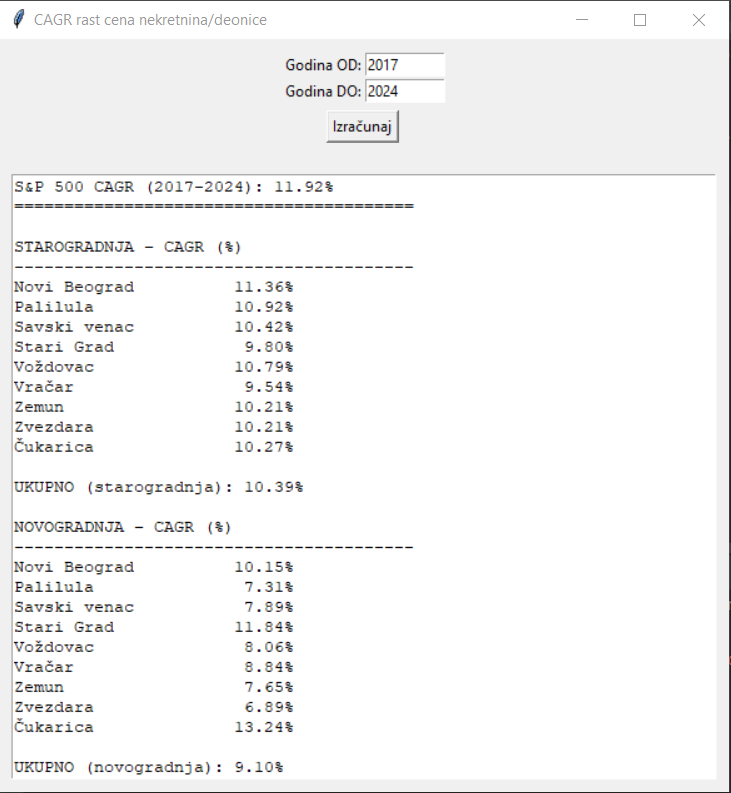
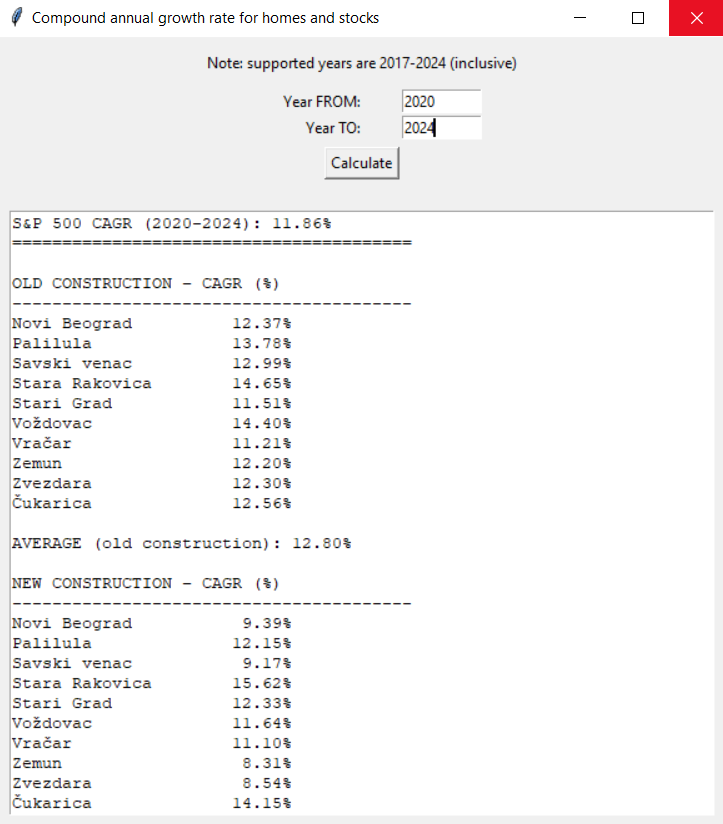
Translate to english, fix readme

Changed region(s): [[0.0, 0.0, 1.0, 1.0], [0.0, 0.0, 0.5477, 0.0303], [0.7911, 0.0, 0.8216, 0.0303]]

diff --git a/main.py b/main.py
@@ -5,190 +5,192 @@ from datetime import datetime, timedelta
 from typing import Dict, List
 
 
-class CenaStana:
+class Price:
     def __init__(
             self,
-            naziv: str,
-            min_starogradnja: int,
-            max_starogradnja: int,
-            average_starogradnja: int,
-            min_novogradnja: int,
-            max_novogradnja: int,
-            average_novogradnja: int):
+            municipality: str,
+            min_old_construction: int,
+            max_old_construction: int,
+            average_old_construction: int,
+            min_new_construction: int,
+            max_new_construction: int,
+            average_new_construction: int):
     
-        self.naziv: str = naziv # name of opstina
+        self.municipality: str = municipality # municipality name
 
-        self.min_starogradnja: int = min_starogradnja  # not used anywhere but kept in for further improvements
-        self.max_starogradnja: int = max_starogradnja  # not used anywhere but kept in for further improvements
-        self.average_starogradnja: int = average_starogradnja
+        self.min_old_construction: int = min_old_construction  # not used anywhere but kept in for further improvements
+        self.max_old_construction: int = max_old_construction  # not used anywhere but kept in for further improvements
+        self.average_old_construction: int = average_old_construction  # average price per square meter for old construction
 
-        self.min_novogradnja: int = min_novogradnja  # not used anywhere but kept in for further improvements
-        self.max_novogradnja: int = max_novogradnja  # not used anywhere but kept in for further improvements
-        self.average_novogradnja: int = average_novogradnja
+        self.min_new_construction: int = min_new_construction  # not used anywhere but kept in for further improvements
+        self.max_new_construction: int = max_new_construction  # not used anywhere but kept in for further improvements
+        self.average_new_construction: int = average_new_construction  # average price per square meter for new construction
 
 
 home_prices = {
-    # opstina, min_starogradnja, max_starogradnja, average_starogradnja, min_novogradnja, max_novogradnja, average_novogradnja
+    # municipality,
+    # min_old_construction, max_old_construction, average_old_construction
+    # min_new_construction, max_new_construction, average_new_construction
     2024: [
-        CenaStana("Stari Grad", 1000, 7500, 3367, 2200, 6517, 4197),
-        CenaStana("Vračar", 806, 6000, 3039, 1151, 5830, 3178),
-        CenaStana("Savski venac", 818, 7529, 2852, 1194, 11811, 4508),
-        CenaStana("Novi Beograd", 758, 5294, 2561, 1331, 4983, 3233),
-        CenaStana("Zvezdara", 700, 5185, 2422, 1083, 4788, 2347),
-        CenaStana("Palilula", 755, 4600, 2301, 1118, 4209, 2577),
-        CenaStana("Voždovac", 742, 3902, 2254, 1000, 4188, 2616),
-        CenaStana("Zemun", 654, 3571, 2198, 909, 3535, 2378),
-        CenaStana("Čukarica", 649, 3690, 2085, 977, 4051, 2878),
-        CenaStana("Stara Rakovica", 702, 2893, 1835, 1134, 3044, 2284),
-        CenaStana("Beograd (svi gradovi)", 600, 7500, 2225, 800, 11811, 2435)
+        Price("Stari Grad", 1000, 7500, 3367, 2200, 6517, 4197),
+        Price("Vračar", 806, 6000, 3039, 1151, 5830, 3178),
+        Price("Savski venac", 818, 7529, 2852, 1194, 11811, 4508),
+        Price("Novi Beograd", 758, 5294, 2561, 1331, 4983, 3233),
+        Price("Zvezdara", 700, 5185, 2422, 1083, 4788, 2347),
+        Price("Palilula", 755, 4600, 2301, 1118, 4209, 2577),
+        Price("Voždovac", 742, 3902, 2254, 1000, 4188, 2616),
+        Price("Zemun", 654, 3571, 2198, 909, 3535, 2378),
+        Price("Čukarica", 649, 3690, 2085, 977, 4051, 2878),
+        Price("Stara Rakovica", 702, 2893, 1835, 1134, 3044, 2284),
+        Price("Beograd (svi gradovi)", 600, 7500, 2225, 800, 11811, 2435)
     ],
     2023: [
-        CenaStana("Stari Grad", 952, 6000, 3130, 1980, 5215, 3625),
-        CenaStana("Vračar", 645, 4650, 2822, 984, 6245, 2988),
-        CenaStana("Savski venac", 900, 4432, 2490, 945, 11475, 4213),
-        CenaStana("Novi Beograd", 732, 5032, 2415, 895, 4030, 2538),
-        CenaStana("Zvezdara", 600, 4298, 2212, 795, 3933, 2280),
-        CenaStana("Palilula", 690, 4367, 2185, 1000, 3888, 2150),
-        CenaStana("Zemun", 610, 4268, 2085, 605, 3707, 2320),
-        CenaStana("Voždovac", 515, 3930, 2052, 705, 3780, 2290),
-        CenaStana("Čukarica", 625, 3500, 1925, 605, 3470, 2110),
-        CenaStana("Stara Rakovica", 600, 2513, 1685, 1042, 2720, 1928),
-        CenaStana("Beograd (svi gradovi)", 400, 6000, 2060, 605, 11475, 2413)
+        Price("Stari Grad", 952, 6000, 3130, 1980, 5215, 3625),
+        Price("Vračar", 645, 4650, 2822, 984, 6245, 2988),
+        Price("Savski venac", 900, 4432, 2490, 945, 11475, 4213),
+        Price("Novi Beograd", 732, 5032, 2415, 895, 4030, 2538),
+        Price("Zvezdara", 600, 4298, 2212, 795, 3933, 2280),
+        Price("Palilula", 690, 4367, 2185, 1000, 3888, 2150),
+        Price("Zemun", 610, 4268, 2085, 605, 3707, 2320),
+        Price("Voždovac", 515, 3930, 2052, 705, 3780, 2290),
+        Price("Čukarica", 625, 3500, 1925, 605, 3470, 2110),
+        Price("Stara Rakovica", 600, 2513, 1685, 1042, 2720, 1928),
+        Price("Beograd (svi gradovi)", 400, 6000, 2060, 605, 11475, 2413)
     ],
     2022: [
-        CenaStana("Stari Grad", 715, 5238, 2628, 1010, 4765, 3265),
-        CenaStana("Vračar", 850, 4302, 2500, 875, 6162, 2575),
-        CenaStana("Savski venac", 833, 5195, 2248, 888, 10400, 3825),
-        CenaStana("Novi Beograd", 693, 4613, 2090, 875, 3995, 2522),
-        CenaStana("Zvezdara", 600, 3915, 1995, 625, 3362, 2150),
-        CenaStana("Palilula", 730, 4153, 1827, 1087, 3585, 2440),
-        CenaStana("Zemun", 517, 3500, 1805, 705, 3120, 2062),
-        CenaStana("Voždovac", 635, 3520, 1740, 737, 3492, 2132),
-        CenaStana("Čukarica", 500, 3500, 1657, 680, 4038, 1930),
-        CenaStana("Stara Rakovica", 705, 2260, 1427, 770, 2115, 1650),
-        CenaStana("Beograd (svi gradovi)", 400, 5238, 1815, 600, 10400, 2342)
+        Price("Stari Grad", 715, 5238, 2628, 1010, 4765, 3265),
+        Price("Vračar", 850, 4302, 2500, 875, 6162, 2575),
+        Price("Savski venac", 833, 5195, 2248, 888, 10400, 3825),
+        Price("Novi Beograd", 693, 4613, 2090, 875, 3995, 2522),
+        Price("Zvezdara", 600, 3915, 1995, 625, 3362, 2150),
+        Price("Palilula", 730, 4153, 1827, 1087, 3585, 2440),
+        Price("Zemun", 517, 3500, 1805, 705, 3120, 2062),
+        Price("Voždovac", 635, 3520, 1740, 737, 3492, 2132),
+        Price("Čukarica", 500, 3500, 1657, 680, 4038, 1930),
+        Price("Stara Rakovica", 705, 2260, 1427, 770, 2115, 1650),
+        Price("Beograd (svi gradovi)", 400, 5238, 1815, 600, 10400, 2342)
     ],
     2021: [
-        CenaStana("Stari Grad", 882, 4500, 2328, 1325, 6493, 2755),
-        CenaStana("Vračar", 882, 4615, 2168, 845, 4292, 2224),
-        CenaStana("Savski venac", 870, 3420, 1866, 1200, 10068, 3155),
-        CenaStana("Novi Beograd", 715, 3083, 1770, 875, 3937, 2190),
-        CenaStana("Zvezdara", 773, 3208, 1702, 727, 3325, 1845),
-        CenaStana("Palilula", 587, 3000, 1572, 900, 3470, 2020),
-        CenaStana("Zemun", 632, 2625, 1563, 672, 2795, 1820),
-        CenaStana("Voždovac", 605, 2647, 1510, 675, 3287, 1958),
-        CenaStana("Čukarica", 570, 2442, 1430, 600, 2900, 1728),
-        CenaStana("Stara Rakovica", 522, 1880, 1180, 732, 1844, 1368),
-        CenaStana("Beograd (svi gradovi)", 400, 4615, 1530, 600, 10068, 2005)
+        Price("Stari Grad", 882, 4500, 2328, 1325, 6493, 2755),
+        Price("Vračar", 882, 4615, 2168, 845, 4292, 2224),
+        Price("Savski venac", 870, 3420, 1866, 1200, 10068, 3155),
+        Price("Novi Beograd", 715, 3083, 1770, 875, 3937, 2190),
+        Price("Zvezdara", 773, 3208, 1702, 727, 3325, 1845),
+        Price("Palilula", 587, 3000, 1572, 900, 3470, 2020),
+        Price("Zemun", 632, 2625, 1563, 672, 2795, 1820),
+        Price("Voždovac", 605, 2647, 1510, 675, 3287, 1958),
+        Price("Čukarica", 570, 2442, 1430, 600, 2900, 1728),
+        Price("Stara Rakovica", 522, 1880, 1180, 732, 1844, 1368),
+        Price("Beograd (svi gradovi)", 400, 4615, 1530, 600, 10068, 2005)
     ],
     2020: [
-        CenaStana("Stari Grad", 1000, 4452, 2178, 962, 3836, 2636),
-        CenaStana("Vračar", 885, 4301, 1987, 1075, 3820, 2086),
-        CenaStana("Savski venac", 754, 3014, 1750, 1208, 9194, 3174),
-        CenaStana("Novi Beograd", 543, 3243, 1606, 900, 3731, 2258),
-        CenaStana("Palilula", 611, 2636, 1373, 882, 3060, 1629),
-        CenaStana("Zvezdara", 580, 2686, 1523, 768, 2763, 1691),
-        CenaStana("Voždovac", 555, 2390, 1316, 756, 2975, 1684),
-        CenaStana("Čukarica", 473, 2229, 1299, 947, 2787, 1695),
-        CenaStana("Zemun", 672, 2117, 1387, 732, 2505, 1728),
-        CenaStana("Stara Rakovica", 500, 1718, 1062, 612, 1662, 1278)
+        Price("Stari Grad", 1000, 4452, 2178, 962, 3836, 2636),
+        Price("Vračar", 885, 4301, 1987, 1075, 3820, 2086),
+        Price("Savski venac", 754, 3014, 1750, 1208, 9194, 3174),
+        Price("Novi Beograd", 543, 3243, 1606, 900, 3731, 2258),
+        Price("Palilula", 611, 2636, 1373, 882, 3060, 1629),
+        Price("Zvezdara", 580, 2686, 1523, 768, 2763, 1691),
+        Price("Voždovac", 555, 2390, 1316, 756, 2975, 1684),
+        Price("Čukarica", 473, 2229, 1299, 947, 2787, 1695),
+        Price("Zemun", 672, 2117, 1387, 732, 2505, 1728),
+        Price("Stara Rakovica", 500, 1718, 1062, 612, 1662, 1278)
     ],
     2019: [
-        CenaStana("Stari Grad", 918, 3815, 2042, 1490, 2790, 2263),
-        CenaStana("Vračar", 905, 3125, 1840, 1221, 3019, 2002),
-        CenaStana("Savski venac", 842, 2851, 1634, 1400, 8683, 2979),
-        CenaStana("Novi Beograd", 652, 2936, 1500, 920, 3557, 2230),
-        CenaStana("Palilula", 500, 2358, 1264, 800, 2731, 1535),
-        CenaStana("Zvezdara", 619, 2441, 1426, 733, 2369, 1575),
-        CenaStana("Voždovac", 600, 2024, 1247, 739, 2226, 1640),
-        CenaStana("Čukarica", 605, 2089, 1200, 769, 2171, 1356),
-        CenaStana("Zemun", 500, 2190, 1274, 784, 2315, 1610),
-        CenaStana("Stara Rakovica", 500, 1519, 997, 850, 1194, 1077)
+        Price("Stari Grad", 918, 3815, 2042, 1490, 2790, 2263),
+        Price("Vračar", 905, 3125, 1840, 1221, 3019, 2002),
+        Price("Savski venac", 842, 2851, 1634, 1400, 8683, 2979),
+        Price("Novi Beograd", 652, 2936, 1500, 920, 3557, 2230),
+        Price("Palilula", 500, 2358, 1264, 800, 2731, 1535),
+        Price("Zvezdara", 619, 2441, 1426, 733, 2369, 1575),
+        Price("Voždovac", 600, 2024, 1247, 739, 2226, 1640),
+        Price("Čukarica", 605, 2089, 1200, 769, 2171, 1356),
+        Price("Zemun", 500, 2190, 1274, 784, 2315, 1610),
+        Price("Stara Rakovica", 500, 1519, 997, 850, 1194, 1077)
     ],
     2018: [
-        CenaStana("Stari Grad", 900, 2800, 1838, 1650, 2760, 2194),
-        CenaStana("Vračar", 920, 2500, 1712, 1200, 2987, 1859),
-        CenaStana("Savski venac", 912, 2979, 1572, 1522, 7777, 2739),
-        CenaStana("Novi Beograd", 500, 2843, 1334, 700, 3140, 1982),
-        CenaStana("Palilula", 500, 2860, 1194, 825, 2884, 1450),
-        CenaStana("Zvezdara", 606, 2286, 1346, 620, 2678, 1528),
-        CenaStana("Voždovac", 600, 2005, 1149, 645, 2044, 1534),
-        CenaStana("Čukarica", 500, 2418, 1115, 620, 2102, 1339),
-        CenaStana("Zemun", 500, 2090, 1160, 606, 1961, 1411)
+        Price("Stari Grad", 900, 2800, 1838, 1650, 2760, 2194),
+        Price("Vračar", 920, 2500, 1712, 1200, 2987, 1859),
+        Price("Savski venac", 912, 2979, 1572, 1522, 7777, 2739),
+        Price("Novi Beograd", 500, 2843, 1334, 700, 3140, 1982),
+        Price("Palilula", 500, 2860, 1194, 825, 2884, 1450),
+        Price("Zvezdara", 606, 2286, 1346, 620, 2678, 1528),
+        Price("Voždovac", 600, 2005, 1149, 645, 2044, 1534),
+        Price("Čukarica", 500, 2418, 1115, 620, 2102, 1339),
+        Price("Zemun", 500, 2090, 1160, 606, 1961, 1411)
     ],
     2017: [
-        CenaStana("Stari Grad", 800, 2800, 1750, 1300, 2310, 1918),
-        CenaStana("Vračar", 900, 2500, 1606, 1220, 2552, 1756),
-        CenaStana("Savski venac", 800, 2225, 1425, 1946, 7111, 2649),
-        CenaStana("Novi Beograd", 700, 2095, 1206, 611, 2450, 1643),
-        CenaStana("Palilula", 700, 1773, 1114, 1042, 2475, 1573),
-        CenaStana("Zvezdara", 606, 2099, 1226, 808, 2100, 1472),
-        CenaStana("Voždovac", 606, 1768, 1100, 814, 1884, 1520),
-        CenaStana("Čukarica", 600, 1698, 1052, 800, 1792, 1205),
-        CenaStana("Zemun", 600, 1700, 1113, 611, 1900, 1419)
+        Price("Stari Grad", 800, 2800, 1750, 1300, 2310, 1918),
+        Price("Vračar", 900, 2500, 1606, 1220, 2552, 1756),
+        Price("Savski venac", 800, 2225, 1425, 1946, 7111, 2649),
+        Price("Novi Beograd", 700, 2095, 1206, 611, 2450, 1643),
+        Price("Palilula", 700, 1773, 1114, 1042, 2475, 1573),
+        Price("Zvezdara", 606, 2099, 1226, 808, 2100, 1472),
+        Price("Voždovac", 606, 1768, 1100, 814, 1884, 1520),
+        Price("Čukarica", 600, 1698, 1052, 800, 1792, 1205),
+        Price("Zemun", 600, 1700, 1113, 611, 1900, 1419)
     ]
 }
 
 
 # Calculates home cagr data between 2 years, returns a list strings that can be shown on UI
 # Each string in the list should be divided by new lines (\n) before printing.
-def calculate_cagr_homes(year_from: int, year_to: int, prices: Dict[int, List[CenaStana]]) -> List[str]:
+def calculate_cagr_homes(year_from: int, year_to: int, prices: Dict[int, List[Price]]) -> List[str]:
     if year_from not in prices or year_to not in prices:
-        return ["Greška! Nema podataka za stanove za izabrane godine."]
+        return ["Error! No home data for the chosen years."]
 
     output_lines = []
     years_diff = year_to - year_from
 
-    data_from: Dict[str, CenaStana] = {o.naziv: o for o in prices[year_from]}
-    data_to: Dict[str, CenaStana] = {o.naziv: o for o in prices[year_to]}
+    data_from: Dict[str, Price] = {o.municipality: o for o in prices[year_from]}
+    data_to: Dict[str, Price] = {o.municipality: o for o in prices[year_to]}
 
-    # ---------- STAROGRADNJA ----------
-    output_lines.append("STAROGRADNJA – CAGR (%)")
+    # ---------- OLD CONSTRUCTION ----------
+    output_lines.append("OLD CONSTRUCTION – CAGR (%)")
     output_lines.append("-" * 40)
 
-    cagr_starogradnja = []
+    cagr_old_construction = []
 
-    for opstina in sorted(data_from.keys()):
-        if opstina not in data_to:
+    for municipality in sorted(data_from.keys()):
+        if municipality not in data_to:
             continue
 
-        start_starogradnja_average_price = data_from[opstina].average_starogradnja
-        end_starogradnja_average_price = data_to[opstina].average_starogradnja
+        start_price = data_from[municipality].average_old_construction
+        end_price = data_to[municipality].average_old_construction
 
-        if start_starogradnja_average_price <= 0:
+        if start_price <= 0:
             continue
 
-        cagr = (end_starogradnja_average_price / start_starogradnja_average_price) ** (1 / years_diff) - 1
-        cagr_starogradnja.append(cagr * 100)
+        cagr = (end_price / start_price) ** (1 / years_diff) - 1
+        cagr_old_construction.append(cagr * 100)
 
-        output_lines.append(f"{opstina:20s} {cagr * 100:6.2f}%")
+        output_lines.append(f"{municipality:20s} {cagr * 100:6.2f}%")
 
-    if cagr_starogradnja:
-        output_lines.append(f"\nUKUPNO (starogradnja): {sum(cagr_starogradnja) / len(cagr_starogradnja):.2f}%\n")
+    if cagr_old_construction:
+        output_lines.append(f"\nAVERAGE (old construction): {sum(cagr_old_construction) / len(cagr_old_construction):.2f}%\n")
 
-    # ---------- NOVOGRADNJA ----------
-    output_lines.append("NOVOGRADNJA – CAGR (%)")
+    # ---------- NEW CONSTRUCTION ----------
+    output_lines.append("NEW CONSTRUCTION – CAGR (%)")
     output_lines.append("-" * 40)
 
-    cagr_novogradnja = []
+    cagr_new_construction = []
 
-    for opstina in sorted(data_from.keys()):
-        if opstina not in data_to:
+    for municipality in sorted(data_from.keys()):
+        if municipality not in data_to:
             continue
 
-        start = data_from[opstina].average_novogradnja
-        end = data_to[opstina].average_novogradnja
+        start_price = data_from[municipality].average_new_construction
+        end_price = data_to[municipality].average_new_construction
 
-        if start <= 0:
+        if start_price <= 0:
             continue
 
-        cagr = (end / start) ** (1 / years_diff) - 1
-        cagr_novogradnja.append(cagr * 100)
+        cagr = (end_price / start_price) ** (1 / years_diff) - 1
+        cagr_new_construction.append(cagr * 100)
 
-        output_lines.append(f"{opstina:20s} {cagr * 100:6.2f}%")
+        output_lines.append(f"{municipality:20s} {cagr * 100:6.2f}%")
 
-    if cagr_novogradnja:
-        output_lines.append(f"\nUKUPNO (novogradnja): {sum(cagr_novogradnja) / len(cagr_novogradnja):.2f}%")
+    if cagr_new_construction:
+        output_lines.append(f"\nAVERAGE (new construction): {sum(cagr_new_construction) / len(cagr_new_construction):.2f}%")
 
     return output_lines
 
@@ -221,11 +223,11 @@ def calculate_cagr(text_output: tk.Text, entry_from: tk.Entry, entry_to: tk.Entr
         year_from = int(entry_from.get())
         year_to = int(entry_to.get())
     except ValueError:
-        text_output.insert(tk.END, "Greška! Unesite validne godine.")
+        text_output.insert(tk.END, "Error! Enter valid years.")
         return
 
     if year_from >= year_to:
-        text_output.insert(tk.END, "Greška! Godina OD mora biti manja od godine DO.")
+        text_output.insert(tk.END, "Error! Year FROM must be less than year TO.")
         return
 
     # calculate and display cagr for stocks
@@ -268,22 +270,24 @@ def main():
 
     # ---- GUI ----
     root = tk.Tk()
-    root.title("CAGR rast cena nekretnina/deonice")
+    root.title("Compound annual growth rate for homes and stocks")
 
     frame = tk.Frame(root, padx=10, pady=10)
     frame.pack()
 
-    tk.Label(frame, text="Godina OD:").grid(row=0, column=0, sticky="e")
+    tk.Label(frame, text="Note: supported years are 2017-2024 (inclusive)").grid(row=0, column=0, columnspan=2, pady=(0, 10))
+
+    tk.Label(frame, text="Year FROM:").grid(row=1, column=0, sticky="e")
     entry_from = tk.Entry(frame, width=10)
-    entry_from.grid(row=0, column=1)
+    entry_from.grid(row=1, column=1)
 
-    tk.Label(frame, text="Godina DO:").grid(row=1, column=0, sticky="e")
+    tk.Label(frame, text="Year TO:").grid(row=2, column=0, sticky="e")
     entry_to = tk.Entry(frame, width=10)
-    entry_to.grid(row=1, column=1)
+    entry_to.grid(row=2, column=1)
 
-    btn = tk.Button(frame, text="Izračunaj",
+    btn = tk.Button(frame, text="Calculate",
                     command=lambda: calculate_cagr(text_output, entry_from, entry_to, sp500_yearly))
-    btn.grid(row=2, column=0, columnspan=2, pady=5)
+    btn.grid(row=3, column=0, columnspan=2, pady=5)
 
     text_output = tk.Text(root, width=70, height=30)
     text_output.pack(padx=10, pady=10)

diff --git a/README.md b/README.md
@@ -17,10 +17,10 @@ yahoo finance for GSPC, which is tracking the s&p 500 index.
 
 For the home prices in Belgrade, the data was taken from [RGZ](https://www.rgz.gov.rs/%D0%B8%D0%B7%D0%B2%D0%B5%D1%88%D1%82%D0%B0%D1%98%D0%B8-%D0%B7%D0%B0-%D0%BF%D1%80%D0%BE%D1%84%D0%B5%D1%81%D0%B8%D0%BE%D0%BD%D0%B0%D0%BB%D0%BD%D0%B5-%D0%BA%D0%BE%D1%80%D0%B8%D1%81%D0%BD%D0%B8%D0%BA%D0%B5) 
 (Republicki geodetski zavod).  
-The data is in the public yearly reports and the data was compiled in the program itself.
-The home prices in the reports is divided on the municipality.   
+The data is in the public yearly reports and the data is written in the program.  
+The home prices in the reports is grouped by municipality.  
 For the calculation of CAGR, the average price per square meter was taken as the data.    
-CAGR is calculator for each municipality and for Belgrade on average.  
+CAGR is calculated for each municipality and for Belgrade on average.  
 
 This method does not represent actual CAGR, as it overlooks many different factors.  
 Nonetheless, the method and calculations shows a rough estimation of price growth of prices over time.
